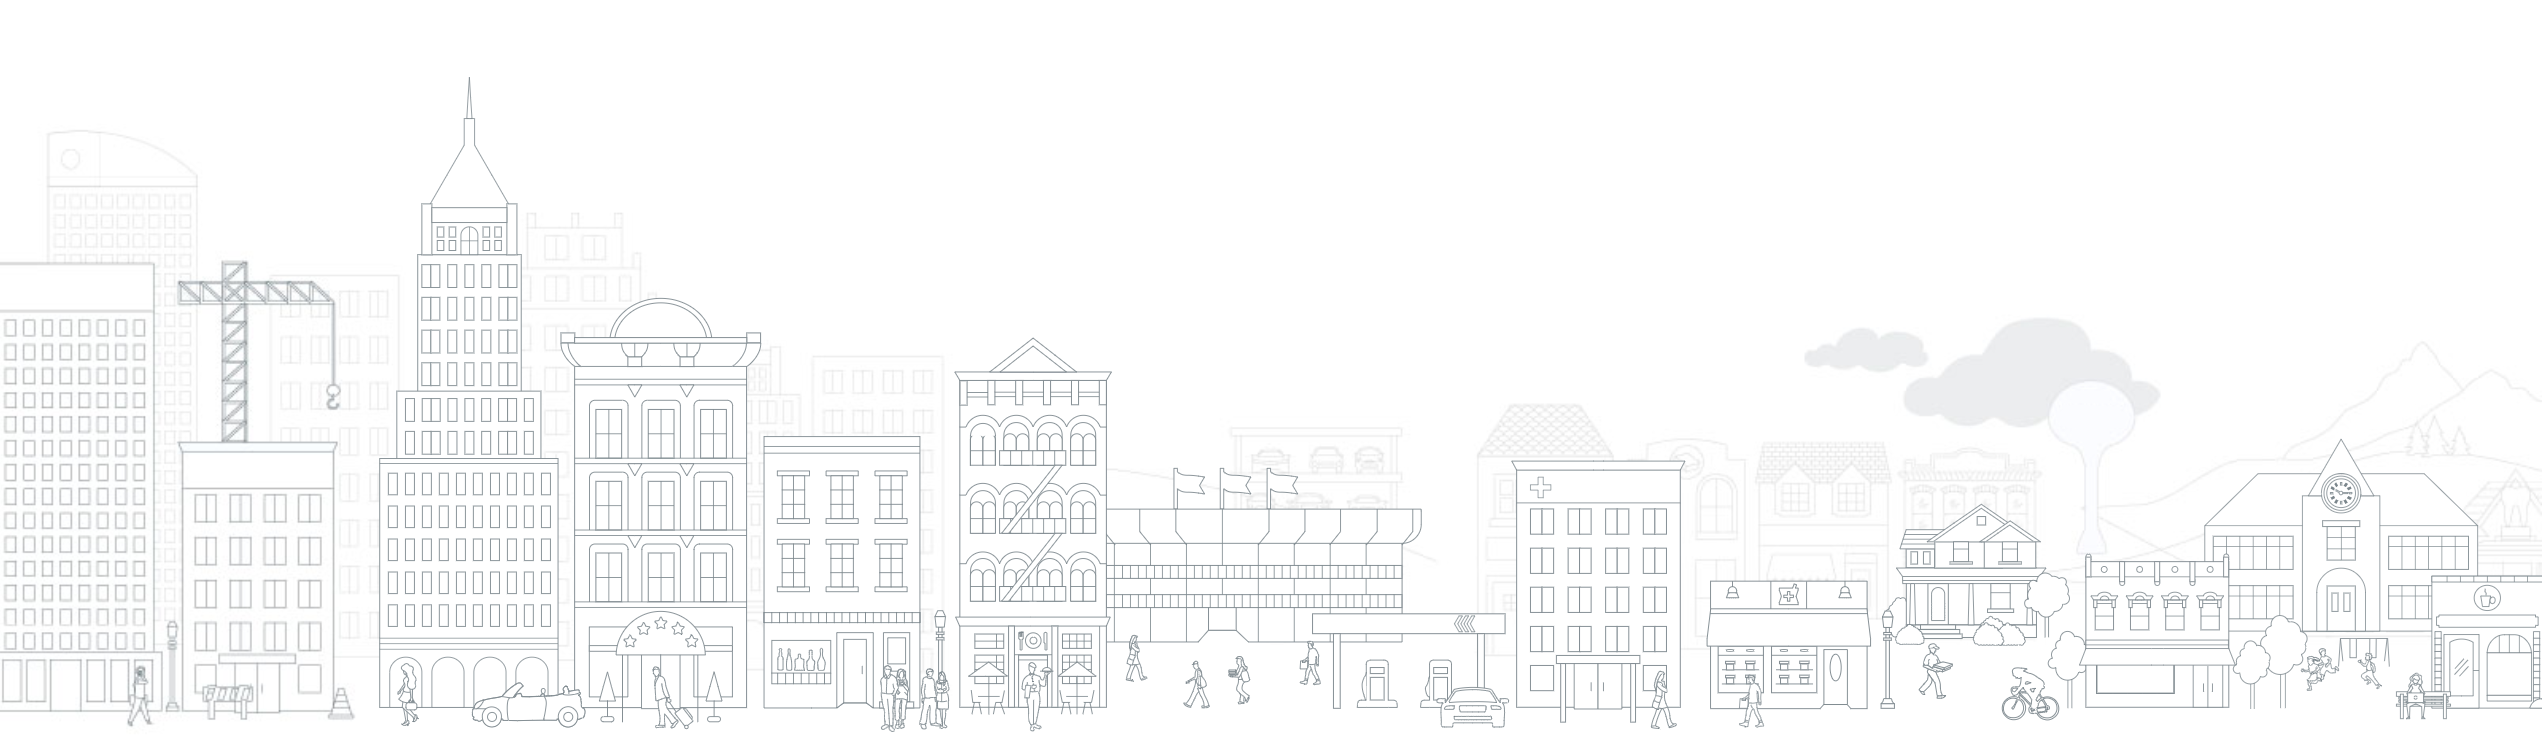
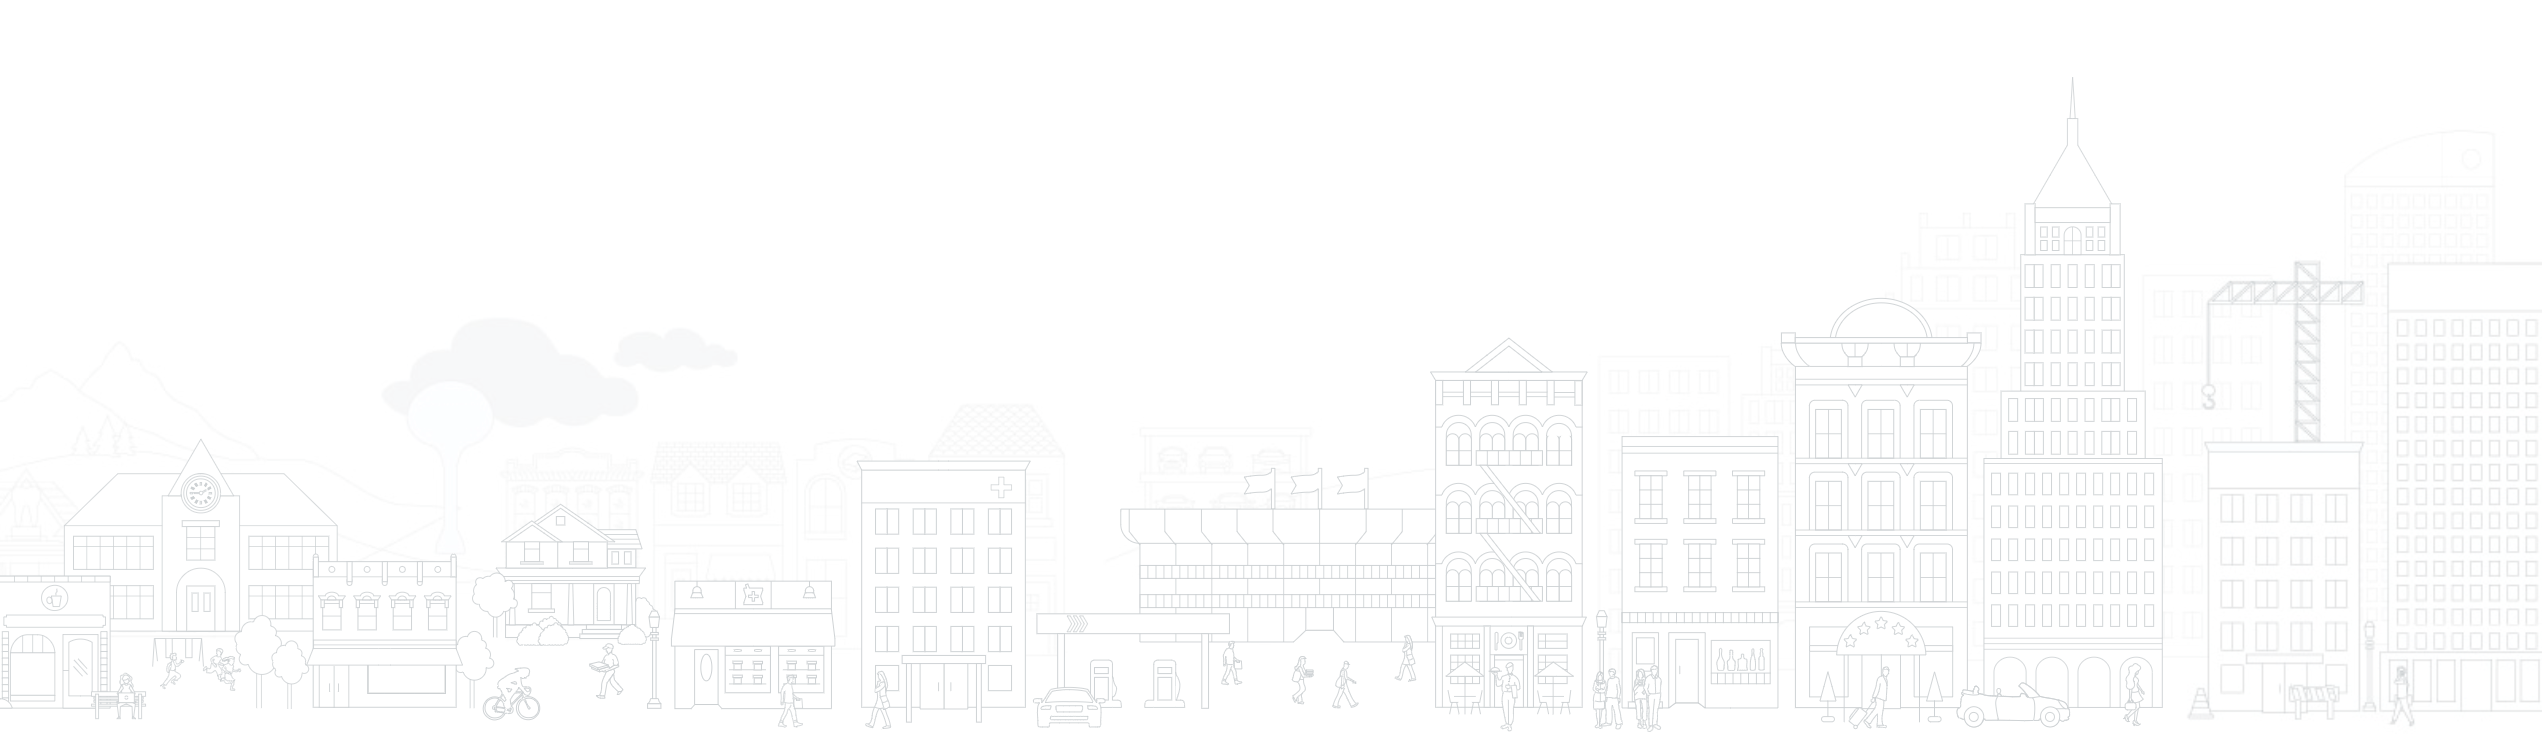
up new asctext

diff --git a/asctext/css/sieunhantrieu.css b/asctext/css/sieunhantrieu.css
@@ -3,11 +3,13 @@
 }
 body {
   font-family: montserrat, Arial, sans-serif;
-  background-color: #fff;
+  background: url(skyline.png) repeat-x bottom center;
+	background-size: contain;
+	height: 100vh;
   color: #000;
   margin: 0;
   padding: 0;
-  overflow: hidden
+  overflow: hidden;
 }
 .container {
   display: flex;
@@ -55,22 +57,22 @@ body {
   margin: 0;
   color: #2d65c3
 }
-.form-container {
+form-container {
   display: flex;
   align-items: center;
   margin-bottom: 30px;
   flex-direction: column;
   justify-content: center
 }
-.form {
+form {
   max-width: 600px;
   width: 90%
 }
-.form label {
+form label {
   font-size: 1.5em;
   line-height: 2
 }
-.form input[type=text], .form input[type=number] {
+form input[type=text], form input[type=number] {
   width: 100%;
   border: 1px solid #ccc;
   border-radius: 4px;
@@ -80,7 +82,7 @@ body {
   font-family: montserrat;
   font-weight: 600
 }
-.form button {
+form button {
   padding: 10px 20px;
   font-size: 18px;
   background-color: #1360c1;
@@ -89,7 +91,7 @@ body {
   border-radius: 4px;
   cursor: pointer
 }
-.form button:hover {
+form button:hover {
   background-color: #0a488f
 }
 .result-container {
@@ -122,27 +124,27 @@ body {
   text-decoration: underline
 }
 .footer {
-  margin-top: auto;
+  margin-top: 20px;
   text-align: center;
-  font-size: 1em;
+  font-size: 0.8em;
   color: #8f8686;
   bottom: 0
 }
 @media only screen and (min-width:1200px) {
-  .form input[type=text], .form input[type=number] {
+  form input[type=text], form input[type=number] {
     font-size: 1em
   }
   .result h2, .result a {
     font-size: 1em
   }
-  .form label {
+  form label {
     font-size: 1em;
     margin-bottom: 10px
   }
   .result h2 {
     font-size: 1em
   }
-  .form button {
+  form button {
     font-size: 1.2em
   }
   .result h2 {
@@ -152,7 +154,7 @@ body {
   .result {
     flex-basis: calc(60% - 10px)
   }
-  .mainvsp {
+  .mainasc {
     flex-direction: row;
     display: flex
   }
@@ -161,7 +163,7 @@ body {
   .body h1 {
     font-size: 1.6em
   }
-  .form label, .form input[type=text], .form input[type=number] {
+  form label, form input[type=text], form input[type=number] {
     font-size: 1em
   }
   .header {
@@ -186,7 +188,7 @@ body {
   img.img-responsive {
     width: 100%
   }
-  .form input[type=text], .form input[type=number], .form label {
+  form input[type=text], form input[type=number], form label {
     font-size: 1em
   }
   .footer {
@@ -194,7 +196,7 @@ body {
     padding: 20px
   }
 }
-.btn-vsp {display: inline-block;
+.btn-asc {display: inline-block;
   border: none;
   background: #00acee;
   background: linear-gradient(0deg, rgba(0, 172, 238, 1) 0%, rgba(2, 126, 251, 1) 100%);
@@ -204,7 +206,7 @@ body {
   padding: 15px 25px;
   border-radius: 4px;
 }
-.btn-vsp:hover {
+.btn-asc:hover {
   text-decoration: none;
   color: #fff
 }
@@ -212,7 +214,7 @@ body {
   position: relative;
   overflow: hidden
 }
-.logo a:before, .btn-vsp:before {
+.logo a:before, .btn-asc:before {
   position: absolute;
   content: '';
   top: -180px;
@@ -220,15 +222,15 @@ body {
   width: 20px;
   height: 100%;
   background-color: #ffffffb3;
-  animation: shiny-vsp 5s ease-in-out infinite;
+  animation: shiny-asc 5s ease-in-out infinite;
 }
-.btn-vsp:hover {
+.btn-asc:hover {
   opacity: .7
 }
-.btn-vsp:active {
+.btn-asc:active {
   box-shadow: 4px 4px 6px 0 rgba(255, 255, 255, .3), -4px -4px 6px 0 rgba(116, 125, 136, .2), inset -4px -4px 6px 0 rgba(255, 255, 255, .2), inset 4px 4px 6px 0 rgba(0, 0, 0, .2)
 }
-@keyframes shiny-vsp {
+@keyframes shiny-asc {
   0% {
     transform: scale(0) rotate(45deg);
     opacity: 0
@@ -272,7 +274,8 @@ body {
 	left:0;
 }
 #html-content-holder{
-/*	background: url(image-default.png) center no-repeat;*/
+	background: url(image-default.png) center no-repeat;
+	flex: 0 0 auto;
 	background-size: contain;
 	display: block;
 	position: relative;
@@ -280,13 +283,15 @@ body {
 	height:400px;
 }
 #output-name,#output-year{
-	color:#000;
-	font-size: 1.2em;
-	line-height: 1.4em
+	font-size: 1.3em;
+	font-weight: 700;
+    color: #005aa9;
+    z-index: 2;
+	line-height: 1.4em;
 }
 #output-name{
 	display: inline-block;
-	z-index: 2;
+	
 	position: absolute;
 	top:calc(50% - 20px);left: 50%;
 	transform: translate(-50%,-50%);
@@ -296,4 +301,14 @@ body {
 	position: absolute;
 	top:calc(50% + 20px);left: 50%;
 	transform: translate(-50%,-50%);
+}
+.box{
+	display: flex;
+	background: #F8F9FC;
+    width: 50%;
+    margin: 0 auto;
+    max-width: 90%;
+    padding:2em;
+    box-shadow: 0px 0px 1.875rem rgba(6,71,124,.17);
+    position: relative;
 }

diff --git a/asctext/index.html b/asctext/index.html
@@ -27,58 +27,66 @@ Website: https://forum.sieunhan.xyz
 <meta property="og:image" content="./css/image-default.png">
 <meta property="og:url" content="https://ascvn.com.vn">
 <link rel="stylesheet" href="./css/sieunhantrieu.css">
-
 <script src="css/jquery.min.js"></script> 
 <script src="css/html2canvas.js"></script>
-	
 </head>
 <body>
 <div class="container">
-<!--
   <div class="header">
     <div class="logo"><a href="#"><img class="img-responsive" src="./css/logo.png" alt="logo ASCVN - website tạo hình ảnh năm công tác bởi Siêu Nhân Designer"></a></div>
     <div class="nameco">CTY TIẾN BỘ SÀI GÒN<strong>ASCVN</strong></div>
   </div>
--->
-  <!--
   <div class="body">
     <p>Cảm ơn những cống hiến và đóng góp của bạn cho ASCVN trong suốt thời gian qua</p>
     <h1>ASCVN được thành lập vào năm 2012</h1>
     <p>Bạn đã gia nhập Đại gia đình ASCVN bao nhiêu năm?</p>
   </div>
--->
-  <div class="mainvsp">
-    <div class="form-container">
-      <div class="form">
-        <label for="name">Họ và Tên:</label>
-        <input type="text" name="name" class="form-control input" placeholder="Nhập tên của bạn" required>
-        <br>
-        <label for="year">Năm bạn bắt đầu gia nhập Ngôi nhà chung ASCVN:</label>
-        <input type="number" name="year" class="form-control input" placeholder="Nhập năm gia nhập" required="Nhập số">
-		  <br>
-        <input type="button" class="btn-vsp" id="btn_convert" value="Download Now">
-		<script>
+  <div class="box">
+    <div class="mainasc">
+      <div class="form-container">
+        <form action="javascript:alert('Thông báo bằng tiếng Việt');">
+          <label for="name">Họ và Tên:</label>
+          <input type="text" name="name" class="form-control input" placeholder="Nhập tên của bạn" required>
+          <br>
+          <label for="year">Năm bạn bắt đầu gia nhập Ngôi nhà chung ASCVN:</label>
+          <input type="number" name="year" class="form-control input" placeholder="Nhập năm gia nhập" min="2012" max="2023" required>
+          <br>
+          <input type="submit" class="btn-asc" id="btn_convert" value="Tải ảnh của bạn">
+        </form>
+        <script>
+		function validateForm() {
+  var name = document.getElementById("name").value;
+  var birthyear = document.getElementById("year").value;
+  if (name == "") {
+    alert("Tên không được để trống");
+    return false;
+  } else if (birthyear < 2012 || birthyear > 2013) {
+    alert("Năm không hợp lệ");
+    return false;
+  }
+  return true;
+}</script> 
+      </div>
+    </div>
+    <div id="html-content-holder">
+      <div id="output-name">Tên bạn là ?</div>
+      <div id="output-year">Năm ?</div>
+      <!--	<div id="img-input"><img src="css/image-400.png" alt="" width="100%"> </div>--> 
+      
+    </div>
+  </div>
+  <script>
 	$(function() {
   $('.input').on('input', function(){
     var source_name = $(this).attr('name');
     $('#output-'+source_name).text( $(this).val() );
   });
 });
+	
+	  
 	  </script>
-      </div>
-    </div>
-  </div>
-  <div id="html-content-holder">
-    <div id="output-name">Tên bạn là ?</div>
-    <div id="output-year">Năm ?</div>
-	<div id="img-input"><img src="css/image-400.png" alt="" width="100%"> </div>
-	
-  </div>
- 
-  
-	 <div id="previewImg"></div>
-	
-	<script>
+  <div id="previewImg"></div>
+  <script>
 		
 	   document.getElementById('btn_convert').addEventListener('click', function() {
 		html2canvas(document.getElementById('html-content-holder'),
@@ -96,20 +104,7 @@ Website: https://forum.sieunhan.xyz
 			});
   });
     </script>
-<!--
-	<script>
-	document.getElementById('download').addEventListener('click', function(e) {
-  let canvasUrl = canvas.toDataURL("image/jpeg", 0.5);
-  console.log(canvasUrl);
-  const createEl = document.createElement('a');
-  createEl.href = canvasUrl;
-  createEl.download = "download-this-canvas";
-  createEl.click();
-  createEl.remove();
-	</script>
--->
   <div class="footer"> ©2023. Design by Siêu Nhân Triều. All Rights Reserved. </div>
 </div>
-	
 </body>
 </html>
